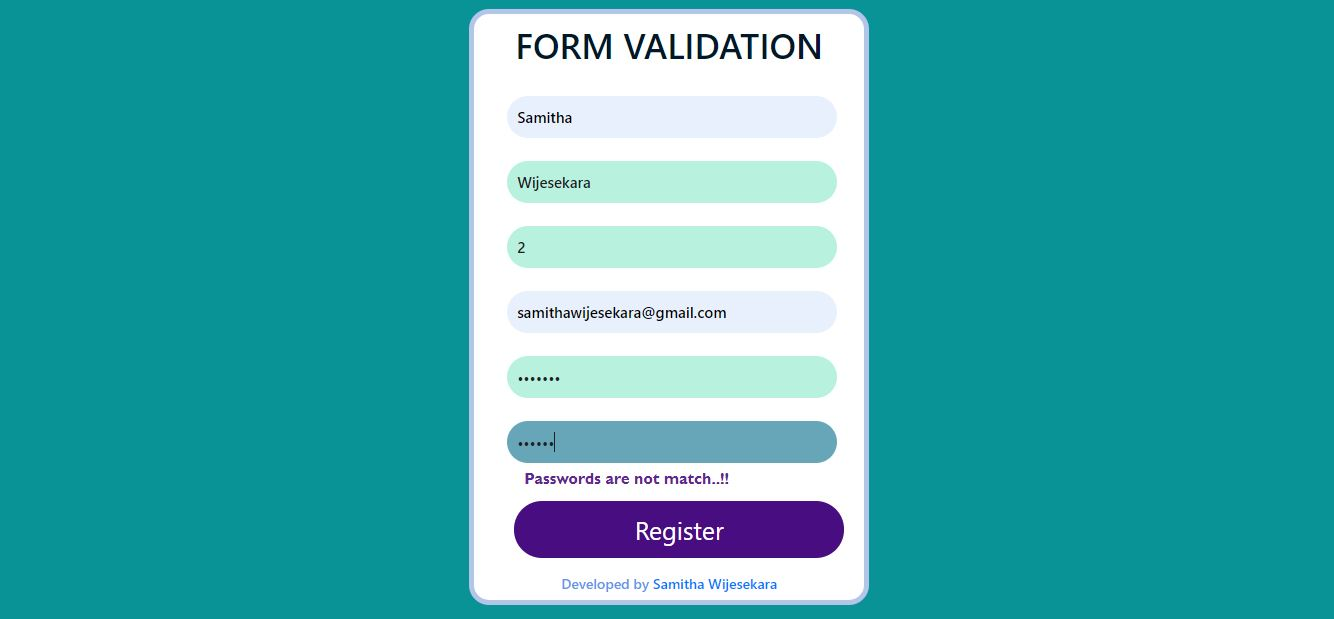
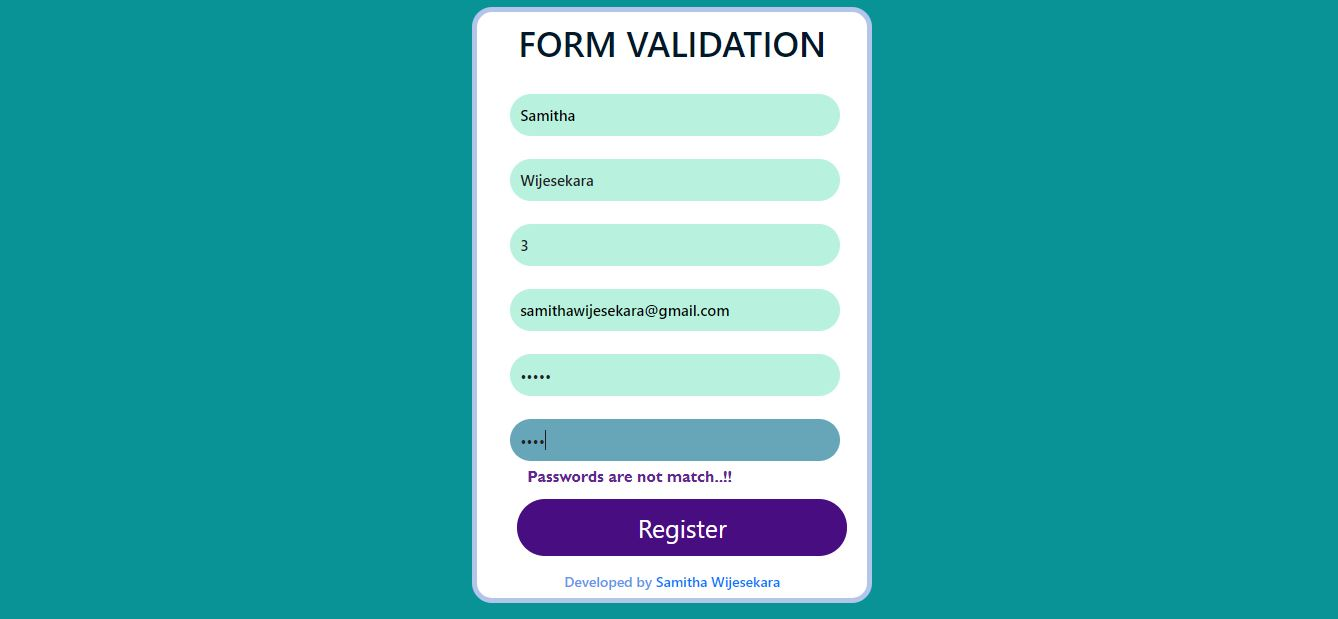
auto fill data correction and change ss

Changed region(s): [[0.3381, 0.0, 0.6454, 0.9822]]

diff --git a/style.css b/style.css
@@ -94,3 +94,19 @@ a:hover {
     margin-left: 20px;
     position: relative;
 }
+
+
+/* Change Autocomplete styles in Chrome*/
+
+input:-webkit-autofill,
+input:-webkit-autofill:hover,
+input:-webkit-autofill:focus,
+textarea:-webkit-autofill,
+textarea:-webkit-autofill:hover,
+textarea:-webkit-autofill:focus,
+select:-webkit-autofill,
+select:-webkit-autofill:hover,
+select:-webkit-autofill:focus {
+    background-color: rgb(185, 241, 223);
+    transition: background-color 5000s ease-in-out 0s;
+}
